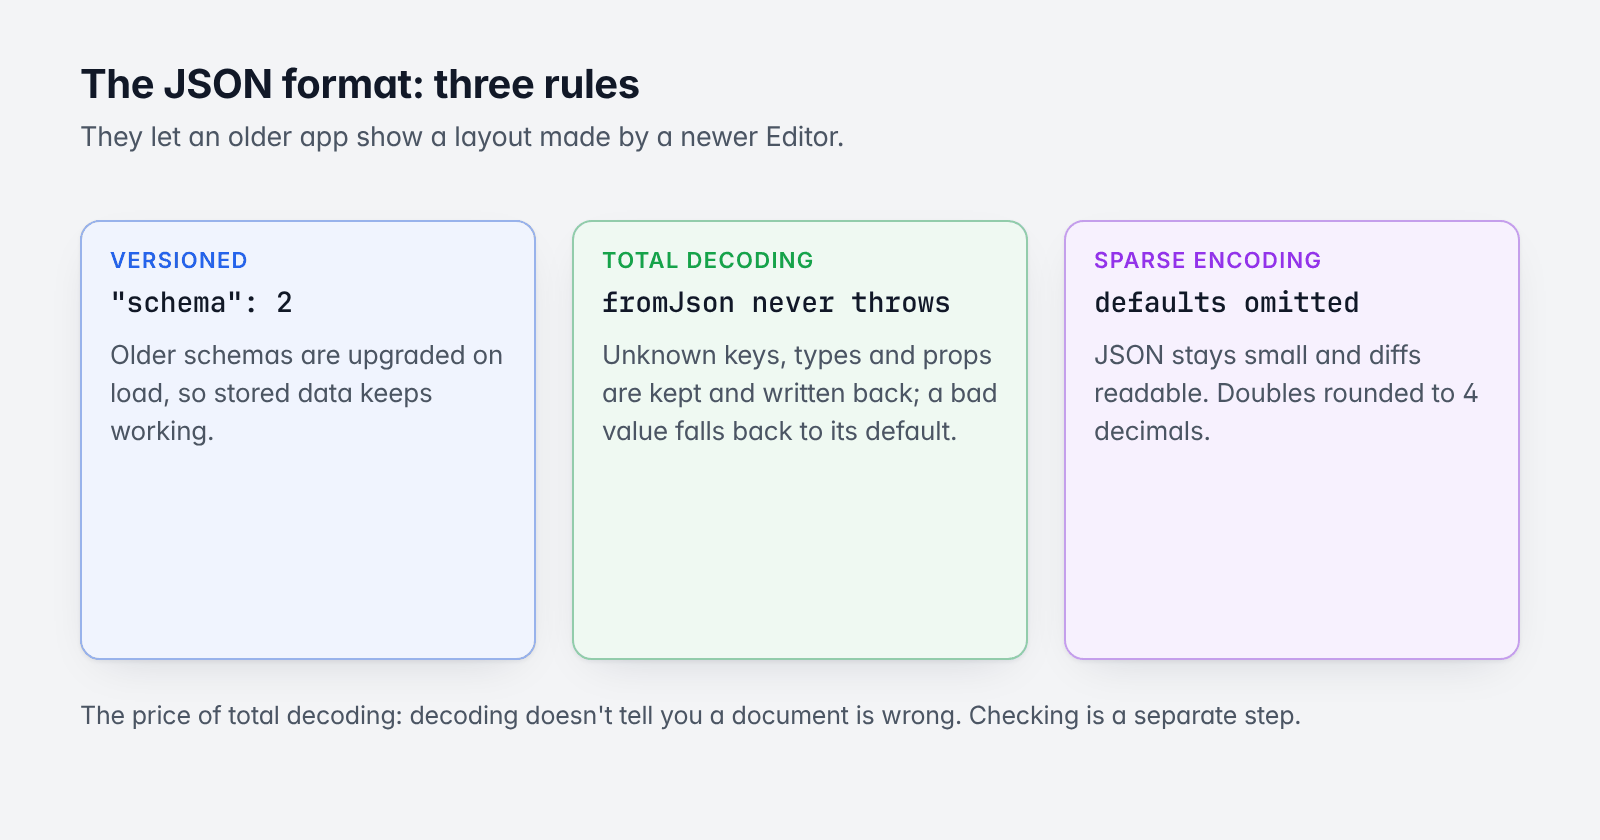
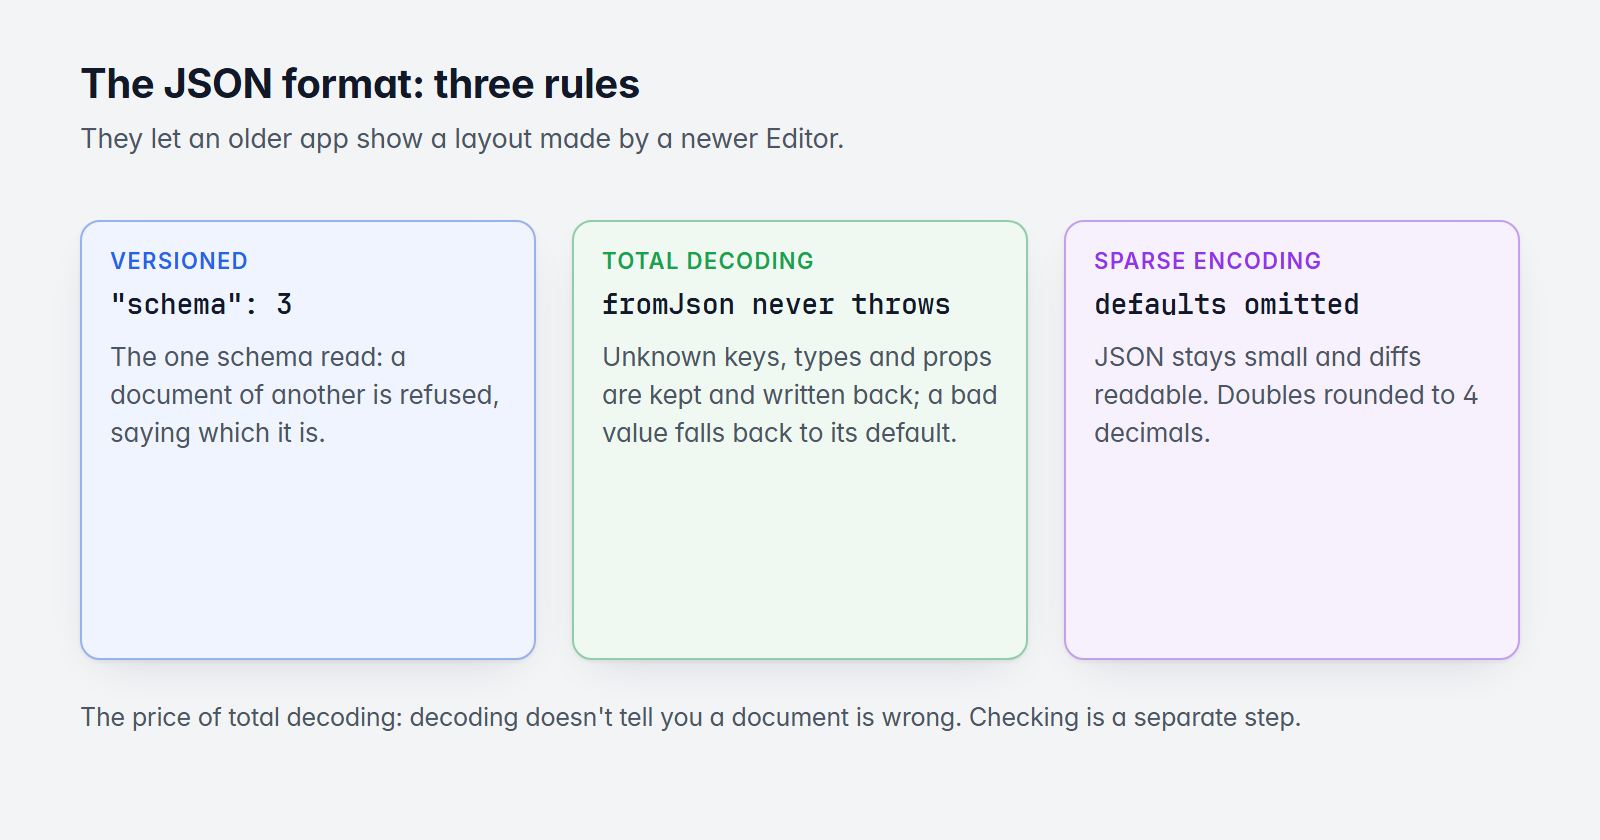
Schema 3 only, the rest: the migration report removed, the guide's action names and its picture of the format

diff --git a/docs/guide/images/_scenes/03-json-format.html b/docs/guide/images/_scenes/03-json-format.html
@@ -7,7 +7,7 @@
 <!-- Hero: three rules -->
 <tut-stage name="hero" w="800" h="420" bg="solid">
   <div class="hd"><div class="t">The JSON format: three rules</div><div class="s">They let an older app show a layout made by a newer Editor.</div></div>
-  <div class="dn blue" style="left:40px;top:110px;width:228px;height:220px"><div class="k">Versioned</div><div class="t m" style="font-size:14px">"schema": 3</div><div class="d" style="margin-top:8px">Older schemas are upgraded on load, so stored data keeps working.</div></div>
+  <div class="dn blue" style="left:40px;top:110px;width:228px;height:220px"><div class="k">Versioned</div><div class="t m" style="font-size:14px">"schema": 3</div><div class="d" style="margin-top:8px">The one schema read: a document of another is refused, saying which it is.</div></div>
   <div class="dn green" style="left:286px;top:110px;width:228px;height:220px"><div class="k">Total decoding</div><div class="t m" style="font-size:14px">fromJson never throws</div><div class="d" style="margin-top:8px">Unknown keys, types and props are kept and written back; a bad value falls back to its default.</div></div>
   <div class="dn purple" style="left:532px;top:110px;width:228px;height:220px"><div class="k">Sparse encoding</div><div class="t m" style="font-size:14px">defaults omitted</div><div class="d" style="margin-top:8px">JSON stays small and diffs readable. Doubles rounded to 4 decimals.</div></div>
   <div class="at" style="left:40px;top:350px;width:720px;font-size:12.5px;color:var(--fg1)">The price of total decoding: decoding doesn't tell you a document is wrong. Checking is a separate step.</div>

diff --git a/lib/src/features/data/action_fields.dart b/lib/src/features/data/action_fields.dart
@@ -129,7 +129,7 @@ abstract final class CloudBatchFields {
 
 /// [SubmitFormAction].
 abstract final class SubmitFormFields {
-  /// Only `local` is offered: [FormService.unsupported] marks old data.
+  /// Only `local` is offered: [FormService.unsupported] is any other, which sends nothing.
   static const service = PropDef<FormService>('service', EnumCodec([FormService.local]), FormService.local);
   static const payload = PropDef<String>('payload', Codecs.string, '', doc: 'An expression yielding a JSON object.');
   static const validationScript = PropDef<String>('validationScript', Codecs.string, '', doc: 'Await a script returning {valid, errors?, payload?}.');

diff --git a/test/animation_test.dart b/test/animation_test.dart
@@ -9,9 +9,6 @@ import 'package:test/test.dart';
 
 Node _node(Json j) => Node.fromJson({'type': 'box', ...j}, id: 'n')!;
 
-double _v(NodeAnimation a, String track, double t) =>
-    readDouble(a.expanded.tracks.firstWhere((x) => x.id == track).valueAt(t))!;
-
 void main() {
   group('springs', () {
     test('a spring is set by its physical constants or by duration and bounce, with Flutter\'s formulas', () {

diff --git a/docs/guide/05-logic.md b/docs/guide/05-logic.md
@@ -127,7 +127,7 @@ color); a value that can't be read leaves the property as it was.
 | `type` | Class |
 |---|---|
 | `navigate`, `openModal`, `closeModal`, `openLink` | `NavigateAction`, `OpenModalAction`, `CloseModalAction`, `OpenLinkAction` |
-| `setVariable`, `animateVariable`, `setValue`, `setVariant`, `setStorage` | State |
+| `setVariable`, `setValue`, `setVariant`, `setStorage` | State |
 | `if`, `forEach`, `delay`, `confirm` | Flow |
 | `callFunction`, `runScript` | The app's code and scripts |
 | `callApi`, `loadCloudData`, `reloadCloudData`, `cloudData`, `cloudDocuments`, `cloudBatch`, `cloudFiles`, `paginate` | Data |
@@ -135,7 +135,7 @@ color); a value that can't be read leaves the property as it was.
 | `callApi`, `loadCloudData`, `cloudData`, `cloudDocuments`, `cloudBatch`, `cloudFiles`, `paginate` | Data |
 | `auth`, `paywall` | Accounts and purchases |
 | `showToast`, `haptic`, `playSound`, `speak`, `copyToClipboard` | Feedback |
-| `submitForm`, `editText`, `focus`, `scrollTo`, `playAnimation`, `controlTrack`, `controlDismissible`, `controlTransform` | Inputs and motion |
+| `submitForm`, `editText`, `focus`, `scrollTo`, `animate`, `controlTrack`, `controlDismissible`, `controlTransform` | Inputs and motion |
 | `captureScreenshot` | Capture (`${result.image}`, a PNG `data:` URL) |
 
 Every action has `enabled`, `nonBlocking` (not awaited) and `when` (a predicate). An unknown `type` decodes as

diff --git a/docs/design/01-paint-node.md b/docs/design/01-paint-node.md
@@ -444,8 +444,8 @@ them after its other steps (`spellingSteps`), so they rewrite schema-2 documents
 document marked schema 3 is read as it is. The 30.0.0 fields are gone from the model (`StrokePath`,
 `BoxProps.path`/`strokeJoin`/`strokeMiterLimit`, `PathProps.subpathColors`, `Paint.gradientPerSubpath`) and from the
 SDK's painters: the steps read them as plain JSON. In a schema-3 document validation reports each as an error with
-the form to write; a value a step keeps is a `legacy_value` warning, never drawn
-(docs/design/schema-3-migration-report.md). Over that report's corpus (106 documents) the steps rewrite 140 stroke
+the form to write; a value a step keeps is a `legacy_value` warning, never drawn. Over the corpus the migration ran
+on then (106 documents) the steps rewrite 140 stroke
 paths, 133 box path values and 45 per-shape color sets; the SDK's test/custom_paint/migrated_paint_test.dart pins
 what the migrated nodes draw as goldens, taken while the 30.0.0 painters still agreed.
 

diff --git a/docs/design/README.md b/docs/design/README.md
@@ -140,8 +140,7 @@ that read the old keys, so the reference apps keep running between phases.
 
 *Superseded by schema 3:* documents are `"schema": 3`, and it is the only schema the package reads: a document of
 any other schema is refused when it is read. The legacy readings described below were moved into a schema-2
-migration with schema 3 (codelessly_api 30.0.0) and later removed with it (docs/design/schema-3-migration-report.md
-is the record of that migration). The text below is the schema-2 plan as it was: documents kept `"schema": 2`; loaders rejected other numbers, so
+migration with schema 3 (codelessly_api 30.0.0) and removed with it in 39.0.0. The text below is the schema-2 plan as it was: documents kept `"schema": 2`; loaders rejected other numbers, so
 nothing here bumped it. Every change is made in decoders (`Behaviors.fromJson`,
 `Motion.fromJson`, `ActionDef.fromJson`, `Trigger.fromJson`,
 `Node.fromJson`): they read the legacy keys, return the new values and

diff --git a/docs/design/03-motion.md b/docs/design/03-motion.md
@@ -515,7 +515,7 @@ scale, when the margin is uneven), set explicitly so a pressed
 refused with the path to write (`movedPathHint`). A state style that moves a node keeps its motion layer at rest
 in the SDK, as the scale layer was kept (a layer added mid-press lost the tap).
 
-**Over the corpus** (docs/design/schema-3-migration-report.md, "30.1.0's one-way steps": 106 documents, 0 failures, a fixed point, no new
+**Over the corpus** (30.1.0's one-way steps: 106 documents, 0 failures, a fixed point, no new
 validation errors): 172 nodes' `layout.rotation` became `motion.rotate`, 3 of them (restaurant-B's menu accents,
 an uneven margin) with the pivot's offset as a translation; 6 bound rotations (reference-site's FAQ chevrons,
 petri's dial) bind `motion.rotate`; 6 `scale` transitions (the SDK's event_desktop fixtures) are `motion.scale`
